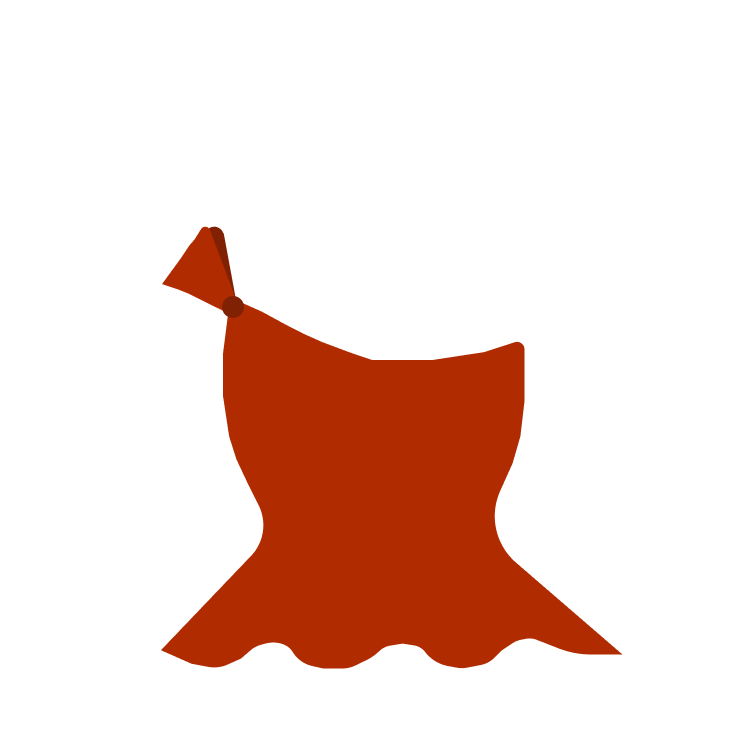
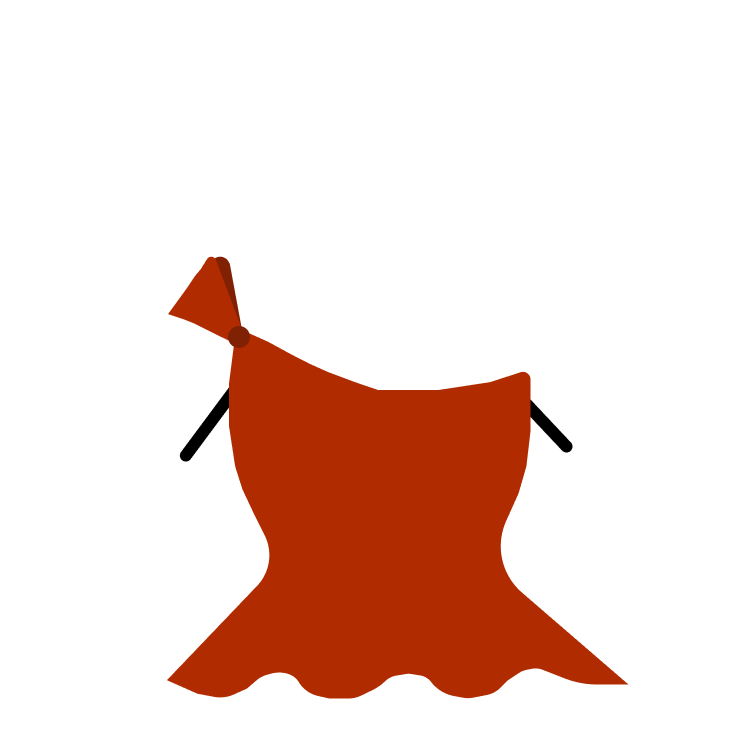
add more mouth and eye assets

Changed region(s): [[0.2147, 0.3067, 0.828, 0.9507], [0.3067, 0.6133, 0.3373, 0.6747]]

diff --git a/src/App.js b/src/App.js
@@ -16,10 +16,25 @@ import eyes1 from './assets/img/eyes/eyes-1.png';
 import eyes2 from './assets/img/eyes/eyes-2.png';
 import eyes3 from './assets/img/eyes/eyes-3.png';
 import eyes4 from './assets/img/eyes/eyes-4.png';
+import eyes5 from './assets/img/eyes/eyes-5.png';
+import eyes6 from './assets/img/eyes/eyes-6.png';
+import eyes7 from './assets/img/eyes/eyes-7.png';
+import eyes8 from './assets/img/eyes/eyes-8.png';
+import eyes9 from './assets/img/eyes/eyes-9.png';
+import eyes10 from './assets/img/eyes/eyes-10.png';
 
 // Mouth Assets
 import mouth1 from './assets/img/mouth/mouth-1.png';
 import mouth2 from './assets/img/mouth/mouth-2.png';
+import mouth3 from './assets/img/mouth/mouth-3.png';
+import mouth4 from './assets/img/mouth/mouth-4.png';
+import mouth5 from './assets/img/mouth/mouth-5.png';
+import mouth6 from './assets/img/mouth/mouth-6.png';
+import mouth7 from './assets/img/mouth/mouth-7.png';
+import mouth8 from './assets/img/mouth/mouth-8.png';
+import mouth9 from './assets/img/mouth/mouth-9.png';
+import mouth10 from './assets/img/mouth/mouth-10.png';
+import mouth11 from './assets/img/mouth/mouth-11.png';
 
 // Head Accessory Assets
 import wayfaeres from './assets/img/head-accessories/head-accessories-1.png';
@@ -30,15 +45,18 @@ import hat2 from './assets/img/head-accessories/hat-2.png'
 // Arm assets
 import arms1 from './assets/img/arms/arms-1.png';
 import arms2 from './assets/img/arms/arms-2.png';
+import arms3 from './assets/img/arms/arms-3.png';
 
 // Shirt assets
 import shirt1 from './assets/img/shirt/shirt-1.png';
 import shirt2 from './assets/img/shirt/shirt-2.png';
 import shirt3 from './assets/img/shirt/shirt-3.png';
+import shirt4 from './assets/img/shirt/shirt-4.png';
 
 // Pants assets
 import pants1 from './assets/img/legs/legs-1.png';
 import pants2 from './assets/img/legs/legs-2.png';
+import pants3 from './assets/img/legs/legs-3.png';
 
 function App() {
   const [leafies, setLeafs] = useState([]);
@@ -52,13 +70,13 @@ function App() {
   const [leafyPants, setLeafyPants] = useState();
 
   let bodyAssets = [body1, body2];
-  let eyesAssets = [eyes1, eyes2, eyes3, eyes4];
-  let mouthAssets = [mouth1, mouth2]
+  let eyesAssets = [eyes1, eyes2, eyes3, eyes4, eyes5, eyes6, eyes7, eyes8, eyes9, eyes10];
+  let mouthAssets = [mouth1, mouth2, mouth3, mouth4, mouth5, mouth6, mouth7, mouth8, mouth9, mouth10, mouth11]
   let headAccessoryAssets = [hat1, hat2, wayfaeres, emeraldEarings];
-  let armsAssets = [arms1, arms2];
+  let armsAssets = [arms1, arms2, arms3];
   let hairAssets = [];
-  let shirtAssets = [shirt1, shirt2, shirt3];
-  let pantsAssets = [pants1, pants2];
+  let shirtAssets = [shirt1, shirt2, shirt3, shirt4];
+  let pantsAssets = [pants1, pants2, pants3];
 
 
   useEffect(() => {
